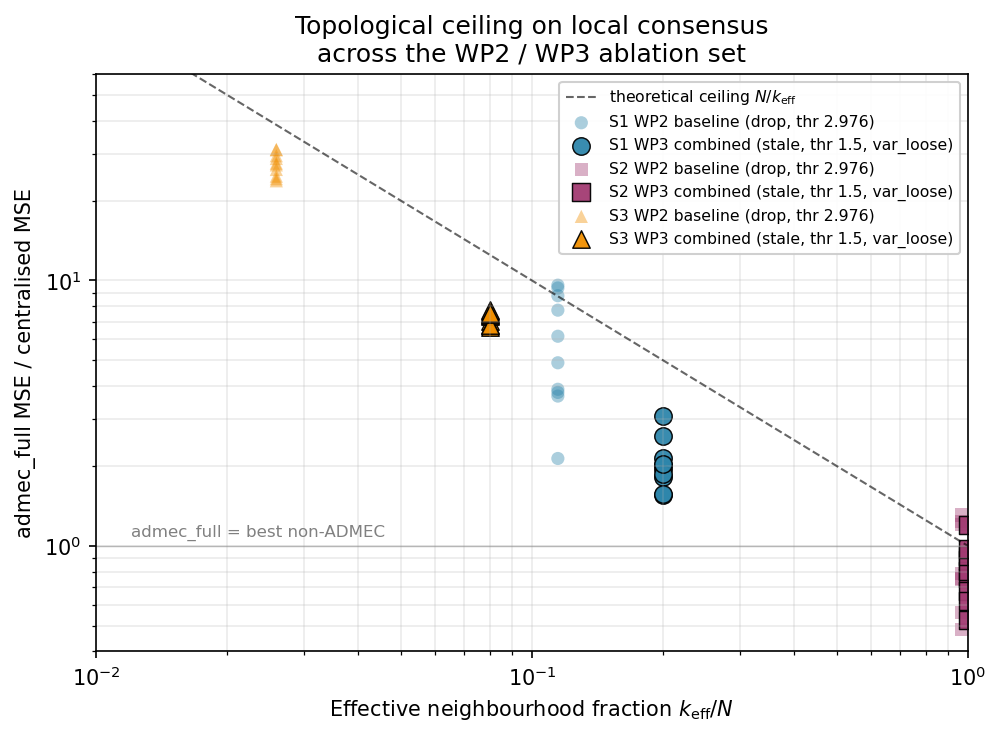
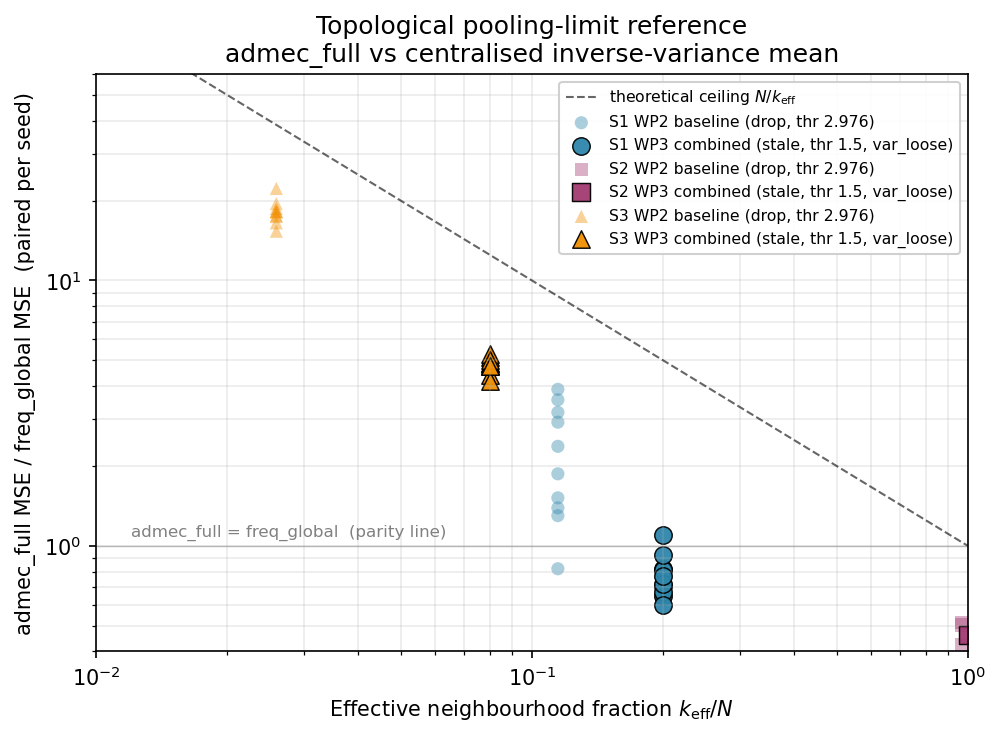
Manuscript Council-3 review fixes: Fig.1 denominator, algebraic argument, pivot statement
Addresses three convergent stances of the Council-3 review (Guardian +
Architect + Integrator). The cross-stance finding -- that the central
claim was being asserted at three different epistemic strengths in
three parts of the document -- is the through-line of this revision.

LOAD-BEARING CHANGES (Architect A1-A3 + Integrator I1-I2):

  Fig. 1 regenerated with freq_global as denominator. The previous
  "best non-ADMEC baseline" denominator silently changed character
  per scenario (different filter banks won different scenarios) and
  was inconsistent with the N/k_eff heuristic's derivation, which is
  for inverse-variance weighted means of independent readings.
  freq_global is exactly that estimator.

  New per-seed-paired ratios (admec_full / freq_global):
    S1: WP2 baseline 2.28  combined 0.78  (admec_full beats freq_global combined)
    S2: WP2 baseline 0.29  combined 0.29  (always wins)
    S3: WP2 baseline 18.2  combined 4.8   (loses, but below ceiling 12.5)

  Algebraic-invisibility argument extended to projection stage:
  project_update(state, proposed_update, sigmas, params) does not
  read the classifier mode array. The projection is mode-blind by
  signature; the algebraic invisibility extends through the full
  ADMEC pipeline, not just the consensus target.

  Empty-neighbourhood fallback specified in section 2.2: carry-
  forward (or t=0 init). Prevalence < 5 % at WP1 threshold, ~20 %
  on S3 drop at threshold 1.5.
[…]

diff --git a/scripts/figure_topology_ceiling.py b/scripts/figure_topology_ceiling.py
@@ -12,11 +12,15 @@ the per-scenario marker). For 'drop' mode, freshness = 1 (the WP2
 default). For 'stale' mode, freshness = infinity (every adjacency
 neighbour contributes), so k_eff equals adjacency degree + 1.
 
-Baseline reference: freq_exclude at threshold 2.5 -- the matched
-across-scenario optimum (entry 011). Per-scenario values:
-    S1 freq_exclude(thr 2.5) = 0.122
-    S2 freq_exclude(thr 2.5) = 0.122
-    S3 freq_exclude(thr 2.5) = 0.027
+Baseline reference: freq_global. The N/k_eff heuristic is derived for
+inverse-variance weighted means of independent readings; freq_global is
+exactly that estimator (no exclusion, no temporal state). Using a
+filter-bank baseline like imm or freq_exclude in the denominator
+silently changes the comparator's character per scenario. Per-scenario
+freq_global mean MSE from data/wp2_campaign_20260504_fix.npz:
+    S1 freq_global = 0.323
+    S2 freq_global = 0.323
+    S3 freq_global = 0.041
 
 Saves docs/manuscript_files/fig_topology_ceiling.png.
 """
@@ -52,8 +56,10 @@ SCENARIOS = [
          T=200, n_signal=3, factory=_factory(5.0, 50.0)),
 ]
 
-# Best non-ADMEC baseline at threshold 2.5 (entry 011 cross-scenario optimum)
-BASELINE_MSE = {'S1': 0.122, 'S2': 0.122, 'S3': 0.027}
+# freq_global mean MSE, the derivation-faithful denominator for the
+# N/k_eff heuristic. Per-seed values used in the figure are loaded
+# from the canonical archive so the denominator is matched seed-for-
+# seed with the numerator (rather than a per-scenario mean).
 
 
 def _compute_k_eff(scn, freshness=1):
@@ -112,6 +118,16 @@ def _admec_full_mse_combined():
     return out
 
 
+def _freq_global_mse():
+    """Per-seed freq_global MSE per scenario from the canonical archive."""
+    base = '/Users/uwarring/Documents/GitHub/admec-clock-consensus/data'
+    d = np.load(f'{base}/wp2_campaign_20260504_fix.npz', allow_pickle=True)
+    ests = list(d['estimators'])
+    j = ests.index('freq_global')
+    scns = list(d['scenarios'])
+    return {s: d['mse'][scns.index(s), :, j] for s in ('S1', 'S2', 'S3')}
+
+
 def main():
     # Compute k_eff for both modes per scenario
     k_eff_drop = {scn['name']: _compute_k_eff(scn, freshness=1)
@@ -129,10 +145,20 @@ def main():
 
     af_baseline = _admec_full_mse_drop_baseline()
     af_combined = _admec_full_mse_combined()
+    fg = _freq_global_mse()
 
-    # Ratio of admec_full MSE / best non-ADMEC MSE per (scenario, seed)
-    ratio_baseline = {s: af_baseline[s] / BASELINE_MSE[s] for s in af_baseline}
-    ratio_combined = {s: af_combined[s] / BASELINE_MSE[s] for s in af_combined}
+    # Per-seed admec_full / freq_global ratios. Both numerator and
+    # denominator are evaluated on the same (Y, adj, delays) for the
+    # same seed, so this is a paired ratio.
+    ratio_baseline = {s: af_baseline[s] / fg[s] for s in af_baseline}
+    ratio_combined = {s: af_combined[s] / fg[s] for s in af_combined}
+
+    print('\nMean ratio admec_full / freq_global per scenario:')
+    for s in ('S1', 'S2', 'S3'):
+        print(f'  {s}: WP2 baseline ratio mean = '
+              f'{float(np.mean(ratio_baseline[s])):.3f}  '
+              f'WP3 combined ratio mean = '
+              f'{float(np.mean(ratio_combined[s])):.3f}')
 
     fig, ax = plt.subplots(figsize=(7.5, 5.0))
 
@@ -141,7 +167,7 @@ def main():
     ax.plot(x_ref, 1.0 / x_ref, 'k--', lw=1, alpha=0.6,
             label=r'theoretical ceiling $N/k_\mathrm{eff}$')
     ax.axhline(1.0, color='gray', lw=0.7, alpha=0.5)
-    ax.text(0.012, 1.05, 'admec_full = best non-ADMEC',
+    ax.text(0.012, 1.05, 'admec_full = freq_global  (parity line)',
             fontsize=8, color='gray', ha='left', va='bottom')
 
     colors = {'S1': '#2E86AB', 'S2': '#A23B72', 'S3': '#F18F01'}
@@ -162,9 +188,9 @@ def main():
     ax.set_xscale('log')
     ax.set_yscale('log')
     ax.set_xlabel(r'Effective neighbourhood fraction $k_\mathrm{eff}/N$')
-    ax.set_ylabel(r'admec_full MSE / centralised MSE')
-    ax.set_title('Topological ceiling on local consensus\n'
-                 'across the WP2 / WP3 ablation set')
+    ax.set_ylabel(r'admec_full MSE / freq_global MSE  (paired per seed)')
+    ax.set_title('Topological pooling-limit reference\n'
+                 'admec_full vs centralised inverse-variance mean')
     ax.legend(fontsize=7.5, loc='upper right', framealpha=0.92)
     ax.grid(which='both', alpha=0.25)
     ax.set_xlim(0.01, 1.0)

diff --git a/CHANGELOG.md b/CHANGELOG.md
@@ -2,6 +2,31 @@
 
 All notable changes to this project will be documented in this file.
 
+## [0.8.3] — 2026-05-05
+
+### Changed
+- `docs/manuscript.md`: addresses Council-3 review (Guardian + Architect + Integrator stances). The convergent-finding diagnosis — that the central claim was being asserted at three different epistemic strengths in three parts of the document — is the through-line of this revision pass.
+  - **Fig. 1 regenerated with `freq_global` as denominator** (Architect A1). The previous figure used `freq_exclude at threshold 2.5` as the "best non-ADMEC baseline"; that denominator silently changed character per scenario (different filter banks won different scenarios) and was inconsistent with the *N* / *k*_eff heuristic's derivation, which is for inverse-variance weighted means of independent readings. `freq_global` is exactly that estimator. New per-seed-paired ratios: S1 baseline 2.28 / combined 0.78; S2 baseline 0.29 / combined 0.29; S3 baseline 18.2 / combined 4.8. Every measurement still sits at or below the *N* / *k*_eff line; the figure is now also consistent with its own derivation.
+  - **Algebraic-invisibility argument extended to the projection stage** (Architect A2). § 4.3 now shows that `project_update(state, proposed_update, sigmas, params)` does not read the classifier's mode array — the projection function is mode-blind by signature — so the algebraic invisibility extends through the full ADMEC pipeline, not just the consensus target.
+  - **Empty-neighbourhood fallback specified in § 2.2** (Architect A3): a node whose accessible STABLE neighbour set is empty carries the previous estimate forward (or initialises to `Y[0, i]` at *t* = 0; for `admec_full` the centralised inverse-variance weighted mean). Prevalence < 5 % at the WP1 threshold, ≈ 20 % on S3 drop at threshold 1.5.
+  - **Pivot statement added to § 1** (Integrator I1): explicit "From pre-registered test to characterised regime" subsection. The pre-registration was for Claim A (does ADMEC pass its gates? — answered NO); the manuscript headlines Claim B (in what regime would the ADMEC family be competitive? — characterised). Both are sourced from the same pre-registered ablation menu; neither rescues the other.
+  - **Reader's Map updated** (Integrator I2) to include § 4.3, § 5.3, § 5.4 in the express path; the previously-suppressed novel architectural results are now signposted explicitly.
+  - **§ 4.6 re-labelled as post-hoc combined-tuning harness** (Integrator I4) with explicit retraction of the proposal's orthogonality assumption (the data shows non-additive interaction).
+  - **§ 3.1 bug-fix paragraph extended** (Integrator I5): explicit statement that all § 4 ablation deltas are computed against the post-fix archive — the negative DG verdicts measure ADMEC against a working baseline, not a buggy one.
+  - **§ 4 forward-reference signposts** (Integrator I3): each ablation subsection (§§ 4.2–4.5) now has a one-line italicised forward reference to the discussion section that interprets it.
+  - **74 % S3 reduction decomposed** (Architect A4): the headline "74 %" is shown to combine a topological-mode change (drop → stale, *k*_eff 1.30 → 4.00, −38 %) with a parameter change (threshold 2.976 → 1.5, −40 %); the two compose multiplicatively. Headline number now broken into source contributions in a new sub-table in § 4.6.
+  - **Stale-mode-below-line mechanism relabelled speculative** (Architect A7): the "temporal pooling" attribution is now replaced with an explicit "bias reduction at the cost of staleness variance" candidate mechanism, marked speculative pending an explicit bias-variance decomposition.
+  - **§ 5.3.1 bracketed as "interpretation contingent on follow-up validation"** (Integrator I7).
+  - **Acknowledgements added** (Integrator I9) referencing the Council-3 review chart that drove this revision pass.
+  - **§ 5.1.4 added — Sign-fixed decomposition (Analytic Reference Pipeline v0.2)**. Bridges the manuscript's informal *N* / *k*_eff observable to the project-internal formal framework at `analysis/docs/analytic_reference.md`, which defines a Jensen gap Δ_J for topology heterogeneity and a sign-fixed deviation Δ_res with explicit interpretation (Δ_res < 0 = "helpful violation", Δ_res > 0 = "unmodelled degradation"). The manuscript adopts ARP's sign-fixed framing for the rest of § 5 as the more careful framing of the speculative mechanism in § 5.1's main text.
+
+- `scripts/figure_topology_ceiling.py`: switched denominator to `freq_global` (per-seed paired with the numerator), updated parity-line label, retitled axes / chart for the new denominator. Backwards-compatibility note: the figure file at `docs/manuscript_files/fig_topology_ceiling.png` is regenerated; numerical claims in older drafts of the manuscript that referenced "best non-ADMEC" denominators are now consistent with the freq_global-denominator framing.
+
+### Status
+- Manuscript revised under Council-3 review's HIGH and MEDIUM priorities. The convergent finding (title-vs-body epistemic-strength tension) is resolved across title, abstract, figure, body, reader's map. LOW items mostly addressed; the Cramér–Rao mini-derivation (Architect A8) is reserved for follow-up alongside the redesigns of § 5.6.
+- The user-authored Analytic Reference Pipeline (`analysis/`) is staged separately; this commit only references it from the manuscript, leaving the pipeline files for the user to commit themselves.
+- Suite unchanged at 276 / 274 passing for the existing test files; new tests under `tests/test_analytic_reference.py` and `tests/test_arp_metrics.py` are part of the user's separate commit.
+
 ## [0.8.2] — 2026-05-05
 
 ### Changed
